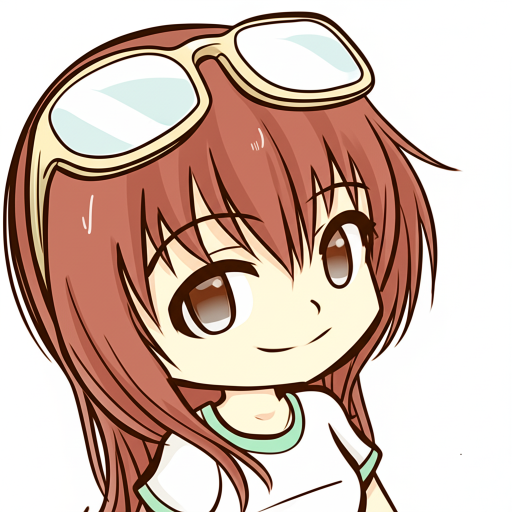
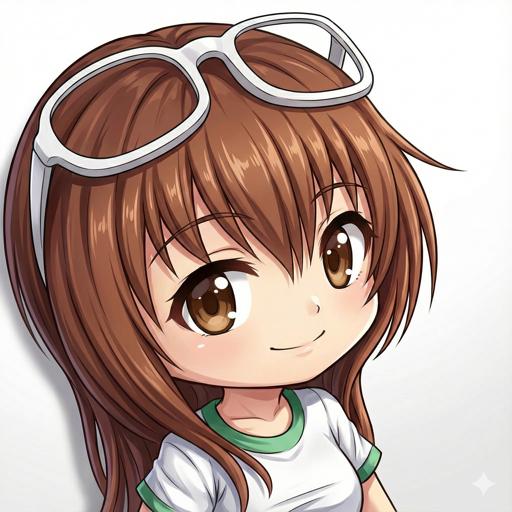
feat: update profile assets and refresh home/about content
- Update all favicon and profile assets using the new 2025 chibi-dani illustration.
- Refresh the home page introduction to focus on Go, Data, and AI Agents.
- Update the About page bio to reflect current focus on AI enablement and "vibe coding with discipline."

diff --git a/content/about/index.md b/content/about/index.md
@@ -22,7 +22,13 @@ showRelatedContent: false
 showComments: false
 layoutBackgroundHeaderSpace: false
 ---
-Daniela Petruzalek is an experienced IT professional with background in software engineering, pre-sales and developer relations, currently a Senior Developer Relations Engineer at Google. Her specialisation is data engineering and back end development and she is a former Google Developer Expert in Go and Google Cloud Platform. She's also a Google Cloud Certified Data Engineer, Oracle Certified Professional and TEDx speaker. In her spare time she contributes to open source, plays video games and pets random cats on the streets.
+Daniela Petruzalek is a Senior Developer Relations Engineer at Google, based in London. She specializes in Go, Data Engineering, and the emerging ecosystem of AI Agents.
+
+With a background spanning over two decades in software engineering and pre-sales, Daniela has a passion for building efficient, scalable systems and helping other developers do the same. Before joining Google, she was a Google Developer Expert (GDE) for Go and Google Cloud Platform. She is also an Oracle Certified Professional and a TEDx speaker.
+
+Her current focus is everything around AI, from using AI to generate code, images, and text to creating AI-enabled applications like agents and other tools. She is a proponent of vibe coding with discipline, applying engineering rigor to AI-assisted workflows to build tools that make developers' lives easier.
+
+In her spare time, she contributes to open source, plays video games, and pets random cats on the streets.
 
 ## Speaking at Events
 

diff --git a/content/_index.md b/content/_index.md
@@ -3,6 +3,10 @@ title: "danicat.dev"
 description: "A blog for the lovers of technology, cats and coffee =^.^="
 summary: "A blog for the lovers of technology, cats and coffee =^.^="
 ---
-Hello and welcome! I'm Daniela Petruzalek and this is my personal blog. I'm a technologist with experience in backend and data engineering, and I'm currently a Developer Relations Engineer at Google. In this blog I talk about technology, best practices, career and sometimes cats. You can check more about my profile in the About page.
+Hello and welcome! I'm Daniela Petruzalek.
 
-**Disclaimer: the views written on this blog are my own and do not necessarily represent the views of my employer.**
+I'm a Developer Relations Engineer at Google, where I focus on Go, Data, and the exciting world of AI Agents. This blog is my space to share what I'm learning, from best practices in backend engineering to experiments with "vibe coding."
+
+Expect technical deep dives, career reflections, and the occasional post about cats and coffee. You can find out more about my professional background on the [About]({{< ref "about" >}}) page.
+
+**Disclaimer: The views expressed here are my own and do not necessarily represent those of my employer.**
